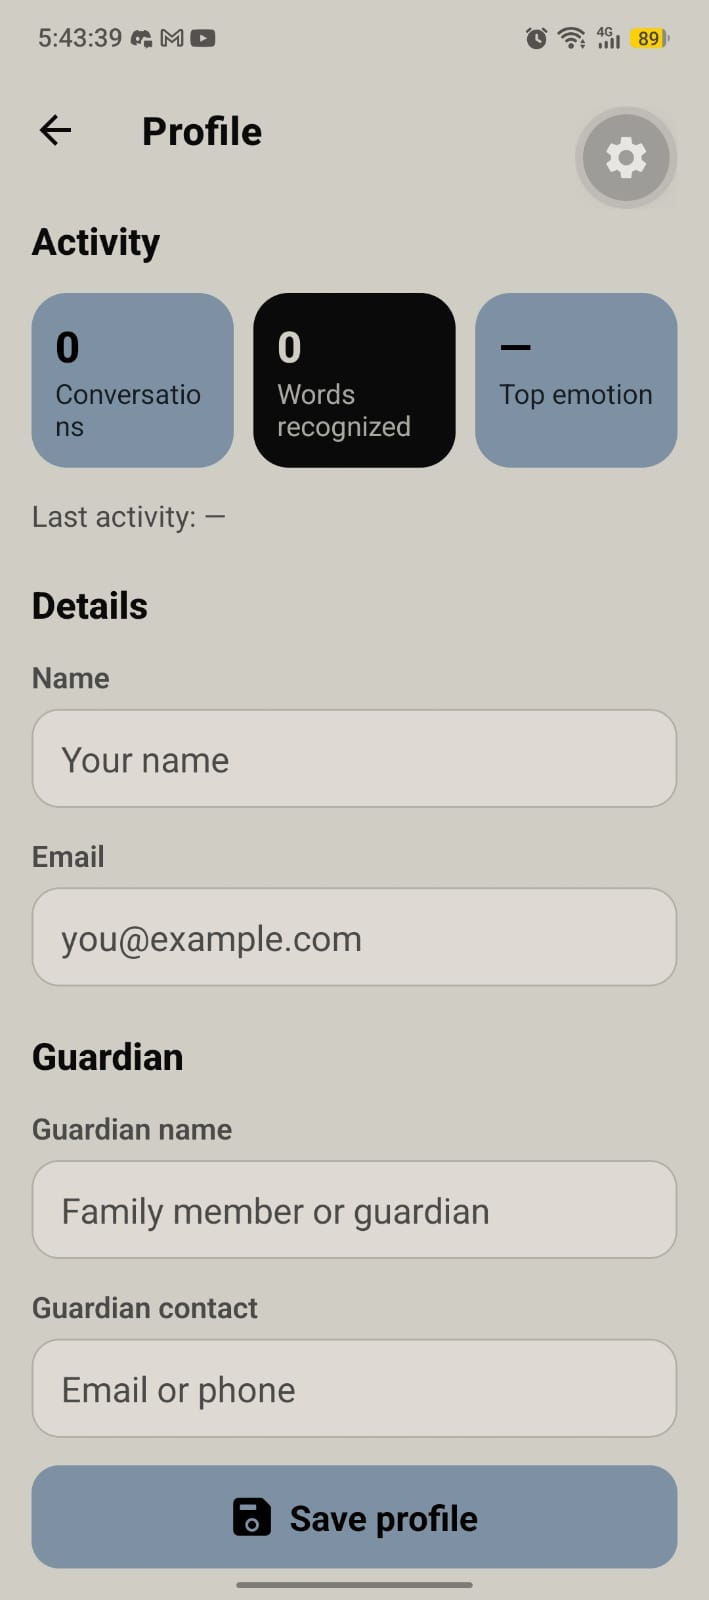
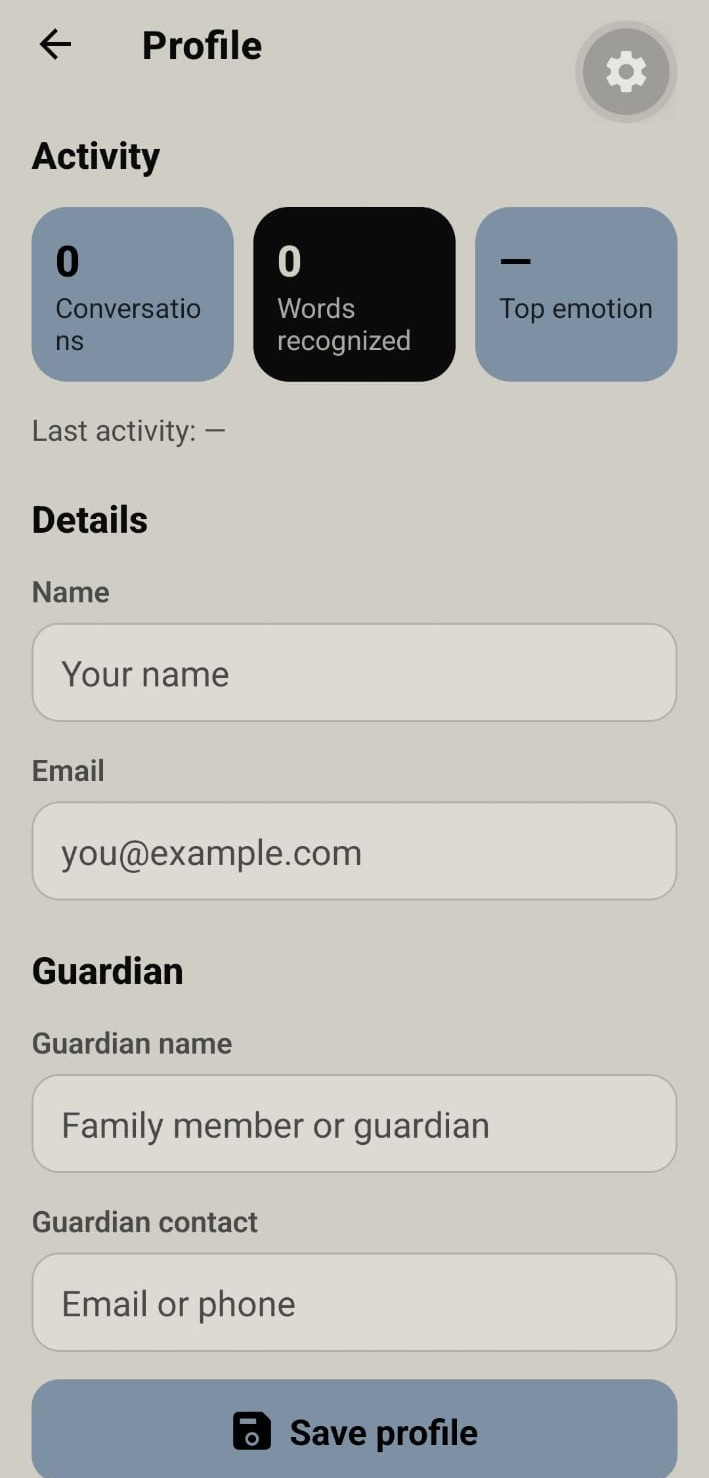
changed use-case numbers and added use case headings AS well as cropped the GUI images (KYS LATEX)

diff --git a/main.tex b/main.tex
@@ -599,13 +599,20 @@ The system will have the following assumptions:
 
 \section{Use Cases}
 This section provides a few important use cases that showcase the working of the system.
-% The table \ref{tab:2.1} provides a simple use case.
-% \subsection{Hold a Live Conversation Using Lip Reading}
 
-\begin{table}[H]
-\centering
+% textwidth: \the\textwidth, linewidth: \the\linewidth, columnwidth: \the\columnwidth
+% \noindent\fbox{\parbox{\linewidth}{This box should touch both margins.}}
+
+\subsection{Hold a Live Conversation Using Lip Reading}
+
+\begingroup
 \renewcommand{\arraystretch}{1.3}
-\begin{tabularx}{\textwidth}{|l|X|}
+\setlength{\parskip}{0pt}
+\setlength{\LTpre}{0pt}
+\setlength{\LTpost}{0pt}
+
+\noindent
+\begin{tabularx}{\linewidth}{|l|X|}
 \hline
 \textbf{Name} & Hold a Live Conversation Using Lip Reading \\ \hline
 \textbf{Actors} & Speech-impaired user, hearing person \\ \hline
@@ -614,27 +621,65 @@ This section provides a few important use cases that showcase the working of the
 \textbf{Post-Conditions} & The conversation is saved to history with date, time and emotion. \\ \hline
 \textbf{Special Requirements} & None \\ \hline
 \end{tabularx}
+\nopagebreak
 
-\vspace{-\arrayrulewidth}
-\begin{tabularx}{\textwidth}{|c|X|c|X|}
+\noindent
+\begin{xltabular}{\linewidth}{|>{\centering\arraybackslash}p{1.1cm}|X|>{\centering\arraybackslash}p{1.1cm}|X|}
 \hline
 \multicolumn{4}{|c|}{\textbf{Basic Flow}} \\ \hline
 \multicolumn{2}{|c|}{\textbf{Actor Action}} & \multicolumn{2}{c|}{\textbf{System Response}} \\ \hline
 1 & User selects ``Start Live Session''. & 2 & System opens the webcam and shows the live video feed. \\ \hline
 3 & User silently mouths a sentence. & 4 & System recognizes the words from lip movements. \\ \hline
-5 & & 6 & System displays each word with its confidence percentage and highlights low-confidence words. \\ \hline
-7 & & 8 & System runs the language model and corrects the sentence. \\ \hline
-9 & & 10 & System displays the corrected sentence for the user to accept, reject or edit. \\ \hline
-11 & User accepts the correction. & 12 & System sends the text to text-to-speech and speaks it aloud. \\ \hline
-13 & Hearing person replies verbally. & 14 & Session continues; user starts the next sentence. \\ \hline
-15 & User ends the session. & 16 & System saves the conversation with date, time and emotion to history. \\ \hline
+ & & 5 & System displays each word with its confidence percentage and highlights low-confidence words. \\ \hline
+ & & 6 & System runs the language model and corrects the sentence. \\ \hline
+ & & 7 & System displays the corrected sentence for the user to accept, reject or edit. \\ \hline
+8 & User accepts the correction. & 9 & System sends the text to text-to-speech and speaks it aloud. \\ \hline
+10 & Hearing person replies verbally. & 11 & Session continues; user starts the next sentence. \\ \hline
+12 & User ends the session. & 13 & System saves the conversation with date, time and emotion to history. \\ \hline
 \multicolumn{4}{|c|}{\textbf{Alternative Flow}} \\ \hline
-17 & User rejects or edits the correction. & 17a & System speaks the edited text. \\ \hline
-\end{tabularx}
-\end{table}
+14 & User rejects or edits the correction. & 14a & System speaks the edited text. \\ \hline
+\end{xltabular}
+\endgroup
+
+
+
+% \begin{table}[H]
+% \centering
+% \renewcommand{\arraystretch}{1.3}
+% \begin{tabularx}{\textwidth}{|l|X|}
+% \hline
+% \textbf{Name} & Hold a Live Conversation Using Lip Reading \\ \hline
+% \textbf{Actors} & Speech-impaired user, hearing person \\ \hline
+% \textbf{Summary} & The user silently mouths a sentence in front of the webcam. The system recognizes the words, shows a confidence score for each, corrects the sentence using the language model, detects the user's emotion, and speaks the confirmed text aloud to the hearing person. The conversation is saved to history. \\ \hline
+% \textbf{Pre-Conditions} & The user is logged in and the webcam is connected. \\ \hline
+% \textbf{Post-Conditions} & The conversation is saved to history with date, time and emotion. \\ \hline
+% \textbf{Special Requirements} & None \\ \hline
+% \end{tabularx}
+
+% \vspace{-\arrayrulewidth}
+
+% \begin{xltabular}{\textwidth}{|c|X|c|X|}
+% \hline
+% \multicolumn{4}{|c|}{\textbf{Basic Flow}} \\ \hline
+% \multicolumn{2}{|c|}{\textbf{Actor Action}} & \multicolumn{2}{c|}{\textbf{System Response}} \\ \hline
+% 1 & User selects ``Start Live Session''. & 2 & System opens the webcam and shows the live video feed. \\ \hline
+% 3 & User silently mouths a sentence. & 4 & System recognizes the words from lip movements. \\ \hline
+%  & & 5 & System displays each word with its confidence percentage and highlights low-confidence words. \\ \hline
+%  & & 6 & System runs the language model and corrects the sentence. \\ \hline
+%  & & 7 & System displays the corrected sentence for the user to accept, reject or edit. \\ \hline
+% 8 & User accepts the correction. & 9 & System sends the text to text-to-speech and speaks it aloud. \\ \hline
+% 10 & Hearing person replies verbally. & 11 & Session continues; user starts the next sentence. \\ \hline
+% 12 & User ends the session. & 13 & System saves the conversation with date, time and emotion to history. \\ \hline
+% \multicolumn{4}{|c|}{\textbf{Alternative Flow}} \\ \hline
+% 14 & User rejects or edits the correction. & 14a & System speaks the edited text. \\ \hline
+% \end{xltabular}
+% % \end{tabularx}
+% \end{table}
+
+
 
 % SECOND CASE
-
+\subsection{ Translate Sign Language to Speech}
 \begin{table}[H]
 \centering
 \renewcommand{\arraystretch}{1.3}
@@ -655,15 +700,16 @@ This section provides a few important use cases that showcase the working of the
 \multicolumn{2}{|c|}{\textbf{Actor Action}} & \multicolumn{2}{c|}{\textbf{System Response}} \\ \hline
 1 & User switches from lip-reading mode to sign-language mode. & 2 & System activates the sign-language recognition module. \\ \hline
 3 & User performs sign gestures in front of the camera. & 4 & System detects hands and recognizes the gestures. \\ \hline
-5 & & 6 & System converts the gestures to text and displays confidence scores. \\ \hline
-7 & User confirms the text. & 8 & System converts the text to speech and plays it for the hearing person. \\ \hline
-9 & User ends the session. & 10 & System saves the conversation and updates the statistics. \\ \hline
+ & & 5 & System converts the gestures to text and displays confidence scores. \\ \hline
+6 & User confirms the text. & 7 & System converts the text to speech and plays it for the hearing person. \\ \hline
+8 & User ends the session. & 9 & System saves the conversation and updates the statistics. \\ \hline
 \multicolumn{4}{|c|}{\textbf{Alternative Flow}} \\ \hline
-11 & User shows unrecognized gesture. & 11a & System informs the user that the gesture was not recognized and asks them to sign again. \\ \hline
+10 & User shows unrecognized gesture. & 10a & System informs the user that the gesture was not recognized and asks them to sign again. \\ \hline
 \end{tabularx}
 \end{table}
 
 % 3
+\subsection{Trigger an Emergency Phrase and Notify a Guardian}
 \begin{table}[H]
 \centering
 \renewcommand{\arraystretch}{1.3}
@@ -683,15 +729,16 @@ This section provides a few important use cases that showcase the working of the
 \multicolumn{4}{|c|}{\textbf{Basic Flow}} \\ \hline
 \multicolumn{2}{|c|}{\textbf{Actor Action}} & \multicolumn{2}{c|}{\textbf{System Response}} \\ \hline
 1 & User communicates the emergency. & 2 & System detects the emergency situation. \\ \hline
-3 & & 4 & System sends /an SMS, email or push notification to the guardian with the user's name, message and time. \\ \hline
-5 & Guardian receives the alert. & 6 & System records the delivery status. \\ \hline
-7 & & 8 & System logs the emergency event in the user's activity. \\ \hline
+ & & 3 & System sends /an SMS, email or push notification to the guardian with the user's name, message and time. \\ \hline
+4 & Guardian receives the alert. & 5 & System records the delivery status. \\ \hline
+ & & 6 & System logs the emergency event in the user's activity. \\ \hline
 \multicolumn{4}{|c|}{\textbf{Alternative Flow}} \\ \hline
-9 & & 10a & If delivery fails, the system retries and sends the alert through another channel. \\ \hline
+ & & 7a & If delivery fails, the system retries and sends the alert through another channel. \\ \hline
 \end{tabularx}
 \end{table}
 
 %4
+\subsection{Register, Log In and Manage Profile}
 \begin{table}[H]
 \centering
 \renewcommand{\arraystretch}{1.3}
@@ -720,7 +767,7 @@ This section provides a few important use cases that showcase the working of the
 \end{table}
 
 %5
-
+\subsection{View the Performance Dashboard}
 \begin{table}[H]
 \centering
 \renewcommand{\arraystretch}{1.3}
@@ -730,7 +777,7 @@ This section provides a few important use cases that showcase the working of the
 \textbf{Actors} & User \\ \hline
 \textbf{Summary} & The user views accuracy, processing time, number of words recognized and recognition history. \\ \hline
 \textbf{Pre-Conditions} & The user is logged in and has completed at least one session. \\ \hline
-\textbf{Post-Conditions} & None (read-only). \\ \hline
+\textbf{Post-Conditions} & None. \\ \hline
 \textbf{Special Requirements} & None \\ \hline
 \end{tabularx}
 
@@ -745,6 +792,7 @@ This section provides a few important use cases that showcase the working of the
 5 & User opens the Dashboard with no completed sessions. & 5a & System displays a ``no data available'' message. \\ \hline
 \end{tabularx}
 \end{table}
+
 
 % This section lists use cases or scenarios from the use-case model if they represent some significant, central functionality of the final system, or if they have a large architectural coverage—they exercise many architectural elements or if they stress or illustrate a specific, delicate point of the architecture.\\
 % \textbf{Summary:} The description briefly conveys the role and purpose of the use case. A single paragraph will suffice for this description.\\
@@ -835,7 +883,7 @@ This section highlights and showcases all the screens associated with the app, i
     \begin{subfigure}{0.30\textwidth}
         \centering
         \includegraphics[width=\textwidth]{images/signlanguage.jpeg}
-        \caption{Sign Language Detection Screen}
+        \caption{Sign Language Screen}
         \label{fig:image2}
     \end{subfigure}
 
@@ -884,7 +932,8 @@ This section highlights and showcases all the screens associated with the app, i
     \begin{subfigure}{0.30\textwidth}
         \centering
         \includegraphics[width=\textwidth]{images/history.jpeg}
-        \caption{User Conversation History Screen}
+        \caption{Conversation History Screen}
+        
         \label{fig:image2}
     \end{subfigure}
 
